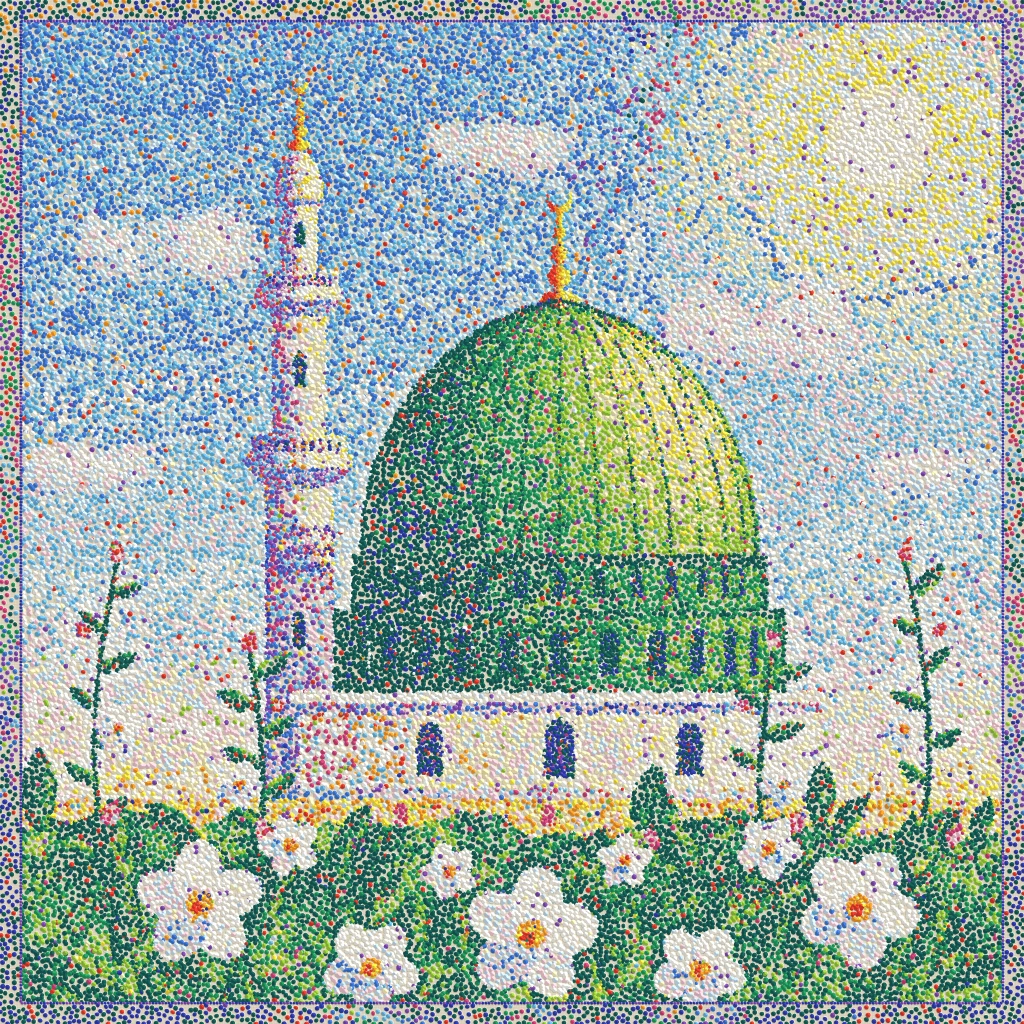
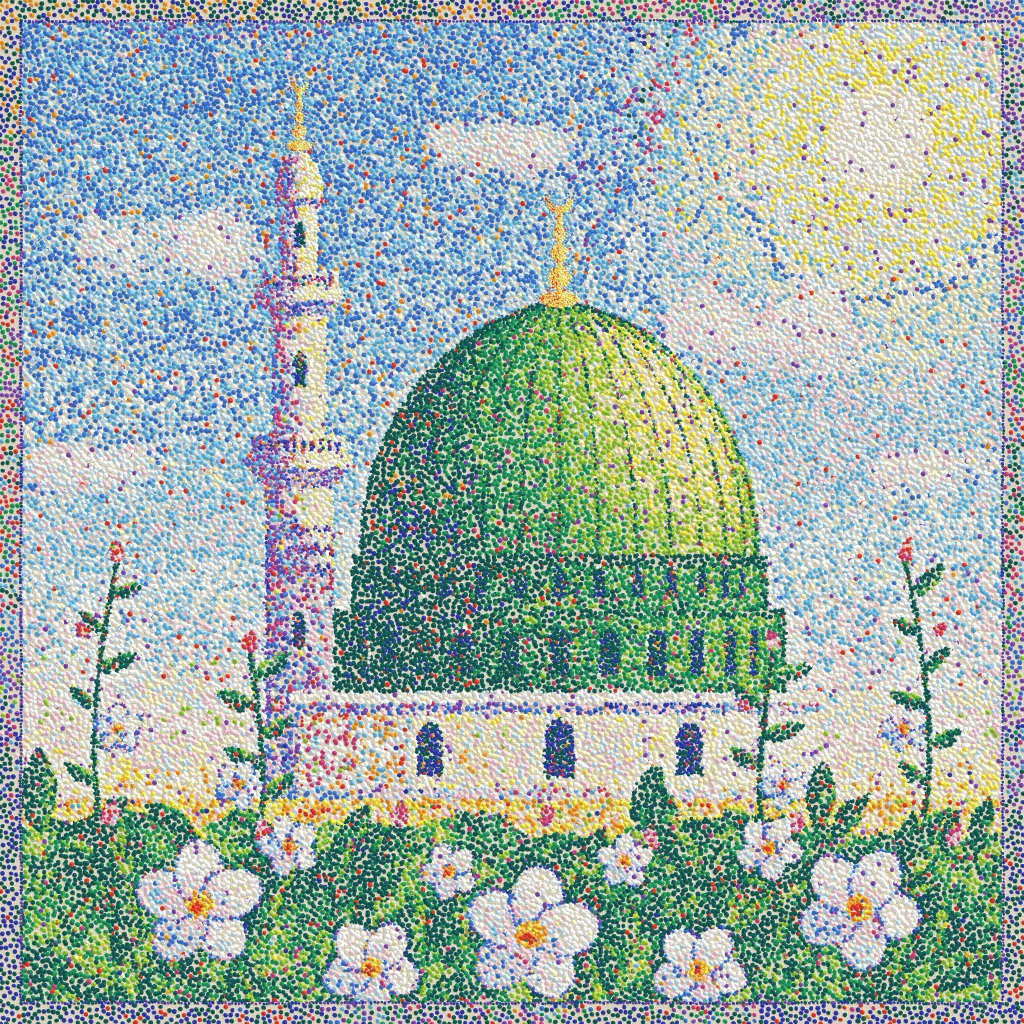
Atölye: boya stilleri gözden geçirmesinin ara kaydı
Claude-Session: https://claude.ai/code/session_01Q8CfoBGMPN7gfLWQYpMs1J

diff --git a/atolye/stiller/S-016-empresyonizm/ornek.html b/atolye/stiller/S-016-empresyonizm/ornek.html
@@ -158,23 +158,24 @@
   const D = {
     gokOrta: [104, 156, 218], kobaltAcik: [118, 136, 218], leylakAcik: [204, 192, 234], pembeAcik: [242, 208, 214],
     limonAcik: [248, 236, 168], yesilAcik: [200, 226, 150], turuncuAcik: [246, 186, 104], seruleumKoyu: [76, 128, 200],
+    tasSicak: [222, 198, 160], tasGri: [176, 168, 172], zumrutAcik: [96, 186, 112],
   };
   const P = {
-    gokUst: [[C.seruleum, 4.5], [D.gokOrta, 4], [D.kobaltAcik, 1.8], [C.leylak, 0.9], [D.seruleumKoyu, 1.6], [C.gokAcik, 1.4]],
-    gokAlt: [[C.gokAcik, 4.5], [D.leylakAcik, 1.3], [D.pembeAcik, 1.6], [C.krem, 1.6], [D.limonAcik, 1], [C.seruleum, 1.6]],
+    gokUst: [[C.seruleum, 5], [D.gokOrta, 4], [D.kobaltAcik, 1.2], [C.leylak, 0.45], [D.seruleumKoyu, 1.1], [C.gokAcik, 2]],
+    gokAlt: [[C.gokAcik, 5], [D.leylakAcik, 0.9], [D.pembeAcik, 0.9], [C.krem, 1], [D.limonAcik, 0.5], [C.seruleum, 2.2]],
     gunes: [[C.beyaz, 3], [C.krem, 3], [D.limonAcik, 2.5], [C.gokAcik, 1.2], [D.pembeAcik, 0.8]],
-    bulut: [[C.beyaz, 3], [C.krem, 2.5], [D.pembeAcik, 1.5], [D.leylakAcik, 2], [C.gokAcik, 1]],
-    kubbeIsik: [[C.sariYesil, 4], [D.yesilAcik, 1.6], [C.cimen, 3.5], [C.zumrut, 1.2], [C.limon, 0.8], [D.turuncuAcik, 0.8]],
-    kubbeOrta: [[C.zumrut, 4], [C.cimen, 3], [C.viridyen, 1.5], [C.sariYesil, 1], [C.kobalt, 0.6], [C.turuncu, 0.25]],
+    bulut: [[C.beyaz, 3.5], [C.krem, 1.6], [D.pembeAcik, 1.2], [D.leylakAcik, 1.6], [C.gokAcik, 1.6]],
+    kubbeIsik: [[C.cimen, 4], [D.zumrutAcik, 2.4], [C.sariYesil, 2.2], [D.yesilAcik, 1.2], [C.zumrut, 1.4], [C.limon, 0.25], [D.turuncuAcik, 0.3]],
+    kubbeOrta: [[C.zumrut, 4.5], [C.cimen, 3], [C.viridyen, 2], [D.zumrutAcik, 1], [C.sariYesil, 0.5], [C.kobalt, 0.6], [C.turuncu, 0.12]],
     kubbeGolge: [[C.viridyen, 4.5], [C.koyuYesil, 3], [C.ultra, 0.9], [C.mor, 0.7], [C.zumrut, 1.4]],
     tasIsik: [[C.krem, 4], [C.beyaz, 2], [D.limonAcik, 1.6], [D.pembeAcik, 1.8], [D.turuncuAcik, 0.5]],
-    tasOrta: [[D.pembeAcik, 2], [D.leylakAcik, 2.5], [C.krem, 1.5], [C.gokAcik, 1.4], [C.okr, 0.6]],
-    tasGolge: [[C.leylak, 4], [D.kobaltAcik, 2], [C.mor, 1.2], [C.gokAcik, 1.4], [C.pembe, 0.8]],
+    tasOrta: [[C.krem, 2], [D.tasSicak, 1.6], [D.pembeAcik, 1.2], [D.leylakAcik, 1.4], [C.gokAcik, 1.4], [C.okr, 0.6], [D.tasGri, 1.2]],
+    tasGolge: [[C.leylak, 2.2], [D.kobaltAcik, 1.6], [D.tasGri, 1.8], [C.gokAcik, 1.4], [C.mor, 0.5], [C.okr, 0.6], [C.pembe, 0.4]],
     pencere: [[C.morKoyu, 4], [C.ultra, 1.4], [C.koyuYesil, 2], [C.mor, 1], [[118, 72, 84], 1.5], [[60, 90, 140], 1]],
     altinIsik: [[C.limon, 3], [C.sari, 3], [C.beyaz, 1], [C.turuncu, 1]],
     altinGolge: [[C.turuncu, 3], [C.kirmizi, 1], [C.sari, 1.5], [C.mor, 0.5]],
-    yaprakIsik: [[C.sariYesil, 3], [C.cimen, 3.5], [C.zumrut, 2], [D.yesilAcik, 1], [C.limon, 0.6], [C.turuncu, 0.3]],
-    yaprakGolge: [[C.viridyen, 3], [C.koyuYesil, 3], [C.ultra, 1.4], [C.mor, 1.1], [C.zumrut, 1.2], [C.kirmizi, 0.25]],
+    yaprakIsik: [[C.sariYesil, 3], [C.cimen, 3.5], [C.zumrut, 2], [D.yesilAcik, 1], [C.limon, 0.4]],
+    yaprakGolge: [[C.viridyen, 3], [C.koyuYesil, 3.5], [C.ultra, 0.9], [C.mor, 0.6], [C.zumrut, 1.2]],
     cicekIsik: [[C.beyaz, 5], [C.krem, 2], [D.pembeAcik, 1.5], [D.limonAcik, 0.6]],
     cicekGolge: [[C.leylak, 3], [C.gokAcik, 2.5], [D.leylakAcik, 2], [C.pembe, 1]],
     orta: [[C.sari, 3], [C.turuncu, 2.5], [C.limon, 1], [C.kirmizi, 0.5]],
@@ -195,9 +196,10 @@
   function renkSec(x, y) {
     const i = idx(x, y), b = ADLAR[BOL[i]], l = LM[i];
     switch (b) {
-      case 'kubbe': return ucBant(l, P.kubbeIsik, P.kubbeOrta, P.kubbeGolge, 0.7, 0.93);
+      case 'kubbe': return ucBant(l, P.kubbeIsik, P.kubbeOrta, P.kubbeGolge, 0.76, 0.97);
       case 'kasnak': return ucBant(l * 0.9, P.kubbeIsik, P.kubbeOrta, P.kubbeGolge, 0.66, 0.9);
-      case 'kaide': case 'minare': return ucBant(l, P.tasIsik, P.tasOrta, P.tasGolge, 0.42, 0.66);
+      case 'kaide': return ucBant(l, P.tasIsik, P.tasOrta, P.tasGolge, 0.42, 0.66);
+      case 'minare': return ucBant(l * 0.86, P.tasIsik, P.tasOrta, P.tasGolge, 0.42, 0.66);
       case 'pencere': return sec(P.pencere);
       case 'altin': return l > 0.5 ? sec(P.altinIsik) : sec(P.altinGolge);
       case 'yaprak': case 'sap': return l > 0.5 ? sec(P.yaprakIsik) : sec(P.yaprakGolge);
@@ -289,16 +291,17 @@
       // kayıp kenarlar: rengi biraz kaymış bir noktadan oku
       const kx = x + gauss() * (o.kayma || 0), ky = y + gauss() * (o.kayma || 0);
       const c = renkSec(kx, ky);
-      const a = yon(kx, ky) + gauss() * (o.sapma || 0.45);
-      const Wd = olcek * Math.exp(gauss() * 0.28) * 0.95, L = Wd * (1.5 + R() * 1.7) * (o.uzun || 1);
+      const gokta = BOL[idx(x, y)] === BI.gok || BOL[idx(x, y)] === BI.gunes;
+      const a = yon(kx, ky) + gauss() * (o.sapma || 0.45) * (gokta ? 0.7 : 1);
+      const Wd = olcek * Math.exp(gauss() * 0.28) * 0.95, L = Wd * (1.5 + R() * 1.7) * (o.uzun || 1) * (gokta ? 1.35 : 1);
       leke(x, y, a, L, Wd, c, o.yuk || 0.07);
     }
   }
   const detay = (x, y, b) => b === 'minare' || b === 'pencere' || b === 'altin' || b === 'cicekOrta' || b === 'kasnak' || b === 'cicek' || b === 'sap' || b === 'tomurcuk';
   const ince = (b) => b === 'minare' || b === 'altin' || b === 'pencere';
   kat(13, 16, { kayma: 2.2, sapma: 0.5, yuk: 0.06, uzun: 1.3, sart: (x, y, b) => !ince(b) || R() < 0.25 });
-  kat(8.5, 10, { kayma: 1.2, sapma: 0.55, yuk: 0.07, uzun: 1.1, sart: (x, y, b) => (!ince(b) && R() < 0.62) || R() < 0.4 });
-  kat(5, 5.2, { kayma: 0.7, sapma: 0.35, yuk: 0.08, sart: (x, y, b) => detay(x, y, b) || R() < 0.1 });
+  kat(8.5, 10, { kayma: 1.2, sapma: 0.55, yuk: 0.07, uzun: 1.1, sart: (x, y, b) => (b === 'gok' || b === 'gunes') ? R() < 0.42 : (!ince(b) && R() < 0.62) || R() < 0.4 });
+  kat(5, 5.2, { kayma: 0.7, sapma: 0.35, yuk: 0.08, sart: (x, y, b) => detay(x, y, b) || (b !== 'gok' && b !== 'gunes' && R() < 0.1) });
   kat(2.6, 2.6, { kayma: 0.3, sapma: 0.25, yuk: 0.08, sart: (x, y, b) => b === 'pencere' || b === 'altin' || b === 'cicekOrta' || (b === 'minare' && R() < 0.5) });
 
   // ------------------------------------------------------------ kubbe silueti: dışta gök, içte kubbe renginde teğet lekeler (yumuşak ama okunur)
@@ -325,8 +328,8 @@
     for (let i = 0; i < 700; i++) {
       const y = 305 + R() * 248, r = kubbeR[Math.round(y)], u = R() * 2 - 1, x = 560 + u * r * 0.97;
       const l = kubbeIsik(x, y);
-      const c = l > 0.75 ? sec([[C.turuncu, 2], [C.limon, 3], [C.krem, 1.5]]) : l < 0.4 ? sec([[C.mor, 2], [C.ultra, 2], [C.kobalt, 1.5]]) : null;
-      if (!c) continue;
+      const c = l > 0.8 ? (R() < 0.45 ? sec([[C.turuncu, 1], [C.limon, 1.6], [C.krem, 1.6]]) : sec([[D.yesilAcik, 2], [D.zumrutAcik, 2]])) : l < 0.4 ? sec([[C.mor, 2], [C.ultra, 2], [C.kobalt, 1.5]]) : null;
+      if (!c || (l > 0.8 && R() < 0.35)) continue;
       leke(x, y, yon(x, y) + gauss() * 0.5, 5 + R() * 4, 2.6 + R() * 1.2, c, 0.08);
     }
     // kaburgalar: kesik koyu lekelerle ima edilir
@@ -345,12 +348,12 @@
     for (const p of SAHNE.kaide.pencereler) leke(p.x, p.y + p.h * 0.55, Math.PI / 2, p.h * 0.85, p.w * 0.75, sec(P.pencere), 0.07);
     for (const p of SAHNE.minarePencereleri) leke(p.x, p.y + p.h * 0.55, Math.PI / 2, p.h * 0.8, p.w * 0.7, sec(P.pencere), 0.07);
     for (const [x1, x2, y1, y2] of [[252, 348, 436, 456], [260, 340, 272, 290]]) {
-      for (let k = 0; k < 10; k++) { const x = x1 + 5 + ((x2 - x1 - 10) * (k + 0.5)) / 10; leke(x, (y1 + y2) / 2 + 1, Math.PI / 2, y2 - y1 - 6, 2.4, x < 300 ? C.mor : C.leylak, 0.06); }
+      for (let k = 0; k < 10; k++) { const x = x1 + 5 + ((x2 - x1 - 10) * (k + 0.5)) / 10; leke(x, (y1 + y2) / 2 + 1, Math.PI / 2, y2 - y1 - 6, 2.4, x < 300 ? [118, 98, 128] : [166, 146, 150], 0.06); }
       for (let x = x1; x < x2; x += 8) { leke(x + 4, y1 + 2, 0, 10, 3, x > 290 ? C.krem : C.leylak, 0.07); leke(x + 4, y2 + 5, 0, 10, 4.2, x > 290 ? C.beyaz : D.leylakAcik, 0.07); leke(x + 4, y2 + 15, 0, 10, 4, sec(P.tasGolge), 0.07); }
     }
     for (const z of SAHNE.zikzakCizgileri()) for (let i = 0; i < z.length - 1; i++) {
       const [ax, ay] = z[i], [bx, by] = z[i + 1];
-      leke((ax + bx) / 2, (ay + by) / 2, Math.atan2(by - ay, bx - ax), Math.hypot(bx - ax, by - ay) + 2, 2.4, ax < 300 ? C.mor : C.okr, 0.07);
+      leke((ax + bx) / 2, (ay + by) / 2, Math.atan2(by - ay, bx - ax), Math.hypot(bx - ax, by - ay) + 2, 2.4, ax < 300 ? [128, 108, 132] : [176, 132, 82], 0.07);
     }
     for (let x = 294; x < 828; x += 9) leke(x, 696, 0, 12, 3.6, x > 450 ? sec([[C.beyaz, 2], [C.krem, 2], [C.limon, 0.6]]) : sec([[C.krem, 1], [C.leylak, 1]]), 0.07);
     for (let x = 302; x < 818; x += 9) leke(x, 708, 0, 12, 3.4, sec(P.tasGolge), 0.06);
@@ -371,6 +374,33 @@
       const x = 540 + R() * 480, y = R() * 520, d = Math.hypot(x - 880, y - 140);
       if (R() > Math.exp(-d / 220) || BOL[idx(x, y)] > 1) continue;
       leke(x, y, -0.3 + gauss() * 0.6, 8 + R() * 6, 3 + R(), sec([[D.limonAcik, 2], [C.krem, 2], [D.pembeAcik, 1], [C.beyaz, 1.5]]), 0.07);
+    }
+    // dallar: saplar boyunca koyu yeşil, kesik lekeler; her yaprağa ekseni boyunca iki üç leke (ışıklı yanı sarı-yeşil,
+    // gölgeli yanı viridyen-mavi); tomurcuklar pembe. Yandaki dallar gökte kaybolmasın diye değerleri koyu tutulur.
+    {
+      const B = SAHNE.bitki;
+      B.saplar.forEach((sp) => {
+        for (let i = 0; i < sp.length - 1; i++) {
+          if (R() < 0.12) continue;
+          const [ax, ay] = sp[i], [bx, by] = sp[i + 1];
+          leke((ax + bx) / 2 + gauss() * 0.8, (ay + by) / 2, Math.atan2(by - ay, bx - ax) + gauss() * 0.1, Math.hypot(bx - ax, by - ay) * 1.3, 3 + R(), sec([[C.koyuYesil, 3], [C.viridyen, 2], [C.zumrut, 1], [C.ultra, 0.5]]), 0.07);
+        }
+      });
+      for (const yp of B.yapraklar) {
+        const yanda = yp.y < 820;
+        if (!yanda) continue;
+        const ca = Math.cos(yp.aci), sa = Math.sin(yp.aci), L = yp.uzunluk, w = L * yp.genislik;
+        const nx = -sa, ny = ca, isikli = nx * 0.74 + ny * -0.67 > 0 ? 1 : -1;
+        for (const yari of [-1, 1]) {
+          const ik = yari * isikli > 0;
+          const t = 0.48 + gauss() * 0.06, o = yari * w * 0.22;
+          leke(yp.x + ca * L * t + nx * o, yp.y + sa * L * t + ny * o, yp.aci + gauss() * 0.1, L * 0.78, w * 0.5, ik ? sec([[C.cimen, 3], [C.sariYesil, 2], [C.zumrut, 1.5]]) : sec([[C.viridyen, 3], [C.koyuYesil, 3], [C.zumrut, 0.8]]), 0.08);
+        }
+      }
+      for (const t of B.tomurcuklar) {
+        leke(t.x + Math.cos(t.aci) * t.r * 0.3, t.y + Math.sin(t.aci) * t.r * 0.3, t.aci, t.r * 2, t.r * 1.2, sec(P.tomurcuk), 0.09);
+        leke(t.x + Math.cos(t.aci) * t.r * 0.6, t.y + Math.sin(t.aci) * t.r * 0.6 - 1, t.aci, t.r * 1.1, t.r * 0.5, C.pembe, 0.09);
+      }
     }
     // çiçekler: dolgun beyaz, göbekte sarı-turuncu
     for (const c of SAHNE.bitki.cicekler) {

diff --git a/atolye/stiller/S-017-puantilizm/ornek.html b/atolye/stiller/S-017-puantilizm/ornek.html
@@ -171,10 +171,17 @@
       for (const e of SAHNE.tacYapraklari(c)) {
         const p = new Path2D(SAHNE.elipsYolu(e));
         const yon = Math.cos(e.aci) * 0.74 + Math.sin(e.aci) * -0.67;
-        const g = h0.createRadialGradient(c.x, c.y, 0, c.x, c.y, c.r);
-        g.addColorStop(0, 'rgb(244,176,196)'); g.addColorStop(0.4, 'rgb(255,250,242)'); g.addColorStop(1, 'rgb(255,252,246)');
+        // taç yaprağın içinde ışık geçişi: gölge yanı serin mavi-leylak, ışık yanı sıcak krem
+        const lx = 0.74, ly = -0.67;
+        const g = h0.createLinearGradient(e.cx - lx * e.rx, e.cy - ly * e.rx, e.cx + lx * e.rx, e.cy + ly * e.rx);
+        g.addColorStop(0, 'rgb(192,198,242)'); g.addColorStop(0.5, 'rgb(246,244,248)'); g.addColorStop(1, 'rgb(255,246,214)');
         h0.fillStyle = g; h0.fill(p);
-        h0.fillStyle = `rgba(170,160,226,${clamp(-yon * 0.6 + 0.1, 0, 0.7)})`; h0.fill(p);
+        h0.fillStyle = `rgba(160,150,226,${clamp(-yon * 0.6 + 0.05, 0, 0.6)})`; h0.fill(p);
+        const gp = h0.createRadialGradient(c.x, c.y, 0, c.x, c.y, c.r * 0.6);
+        gp.addColorStop(0, 'rgba(240,160,190,0.9)'); gp.addColorStop(1, 'rgba(240,160,190,0)');
+        h0.fillStyle = gp; h0.fill(p);
+        // üst üste binen taç yaprakları ayıran serin kenar
+        h0.strokeStyle = 'rgba(140,132,212,0.6)'; h0.lineWidth = Math.max(2, c.r * 0.06); h0.stroke(p);
       }
       h0.fillStyle = 'rgb(246,180,50)'; h0.beginPath(); h0.arc(c.x, c.y, c.r * 0.22, 0, Math.PI * 2); h0.fill();
       h0.fillStyle = 'rgb(220,110,40)'; h0.beginPath(); h0.arc(c.x - c.r * 0.05, c.y + c.r * 0.05, c.r * 0.1, 0, Math.PI * 2); h0.fill();
@@ -325,6 +332,30 @@
     for (const [x, y] of altin) if (BOL[Math.round(y) * W + Math.round(x)] === BI.altin) nokta(x, y, 1.25, noktaRengi(x, y));
   }
 
+  // ------------------------------------------------------------ alemler: çevresindeki gök küçük noktalarla temizlenir, hilal ve küreler
+  // ince noktalarla yeniden kurulur (biçim okunsun)
+  {
+    const ALT = (x, y) => BOL[clamp(Math.round(y), 0, W - 1) * W + clamp(Math.round(x), 0, W - 1)] === BI.altin;
+    const GOK = (x, y) => { const b = BOL[clamp(Math.round(y), 0, W - 1) * W + clamp(Math.round(x), 0, W - 1)]; return b === BI.gok || b === BI.gunes; };
+    const yakin = (x, y, r) => { for (let a = 0; a < 12; a++) { const an = (a / 12) * Math.PI * 2; for (const d of [r * 0.5, r]) if (ALT(x + Math.cos(an) * d, y + Math.sin(an) * d)) return true; } return false; };
+    for (const [x0, y0, x1, y1] of [[526, 172, 594, 312], [278, 68, 322, 150]]) {
+      // önceki iri noktaları sil: astar rengi ve düz yükseklik
+      ctx.fillStyle = '#e2d8c3'; hctx.globalCompositeOperation = 'source-over'; hctx.fillStyle = '#000'; hctx.globalAlpha = 1;
+      for (let y = y0; y < y1; y++) for (let x = x0; x < x1; x++) {
+        if (ALT(x, y) || (GOK(x, y) && yakin(x, y, 4))) { ctx.fillRect(x - 0.5, y - 0.5, 1, 1); hctx.fillRect(x - 0.5, y - 0.5, 1, 1); }
+      }
+      hctx.globalCompositeOperation = 'lighter'; hctx.fillStyle = '#fff';
+      for (const [x, y] of poisson(1.9, x0, y0, x1, y1)) if (GOK(x, y) && !ALT(x, y) && yakin(x, y, 5)) nokta(x, y, 1.2, noktaRengi(x, y));
+      const cx = (x0 + x1) / 2;
+      for (const [x, y] of poisson(1.35, x0, y0, x1, y1)) {
+        if (!ALT(x, y)) continue;
+        const r = R(), isik = x > cx - 1;
+        const c = isik ? (r < 0.5 ? PALET[1] : r < 0.8 ? PALET[12] : PALET[2]) : (r < 0.5 ? PALET[2] : r < 0.82 ? PALET[1] : PALET[3]);
+        nokta(x, y, 0.9, c);
+      }
+    }
+  }
+
   // ------------------------------------------------------------ boyalı çerçeve: komşu rengin tamamlayıcısıyla noktalanmış
   {
     // önce bezi kapat, sonra çerçeve noktaları
@@ -349,8 +380,16 @@
       nokta(x, y, 2.2 + R() * 0.3, PALET[sec]);
     }
     // resimle çerçeve arasında ince koyu çizgi (noktalarla)
-    for (let t = CERCEVE; t <= W - CERCEVE; t += 3.2) {
-      for (const [x, y] of [[t, CERCEVE - 1], [t, W - CERCEVE + 1], [CERCEVE - 1, t], [W - CERCEVE + 1, t]]) nokta(x, y, 1.5, R() < 0.6 ? PALET[6] : PALET[5]);
+    // elle noktalanmış gibi: aralık, boy ve hiza biraz oynak, yer yer çift nokta ya da küçük boşluk
+    for (let kenar = 0; kenar < 4; kenar++) {
+      let t = CERCEVE - 2 + R() * 2;
+      while (t <= W - CERCEVE + 2) {
+        const sap = (R() - 0.5) * 1.4 + Math.sin(t / 37 + kenar) * 0.5;
+        const q = [[t, CERCEVE - 1 + sap], [t, W - CERCEVE + 1 + sap], [CERCEVE - 1 + sap, t], [W - CERCEVE + 1 + sap, t]][kenar];
+        const r0 = R();
+        nokta(q[0], q[1], 1.25 + R() * 0.55, r0 < 0.5 ? PALET[6] : r0 < 0.8 ? PALET[5] : PALET[11]);
+        t += 2.6 + R() * 1.6 + (R() < 0.04 ? 2.5 : 0);
+      }
     }
   }
 
